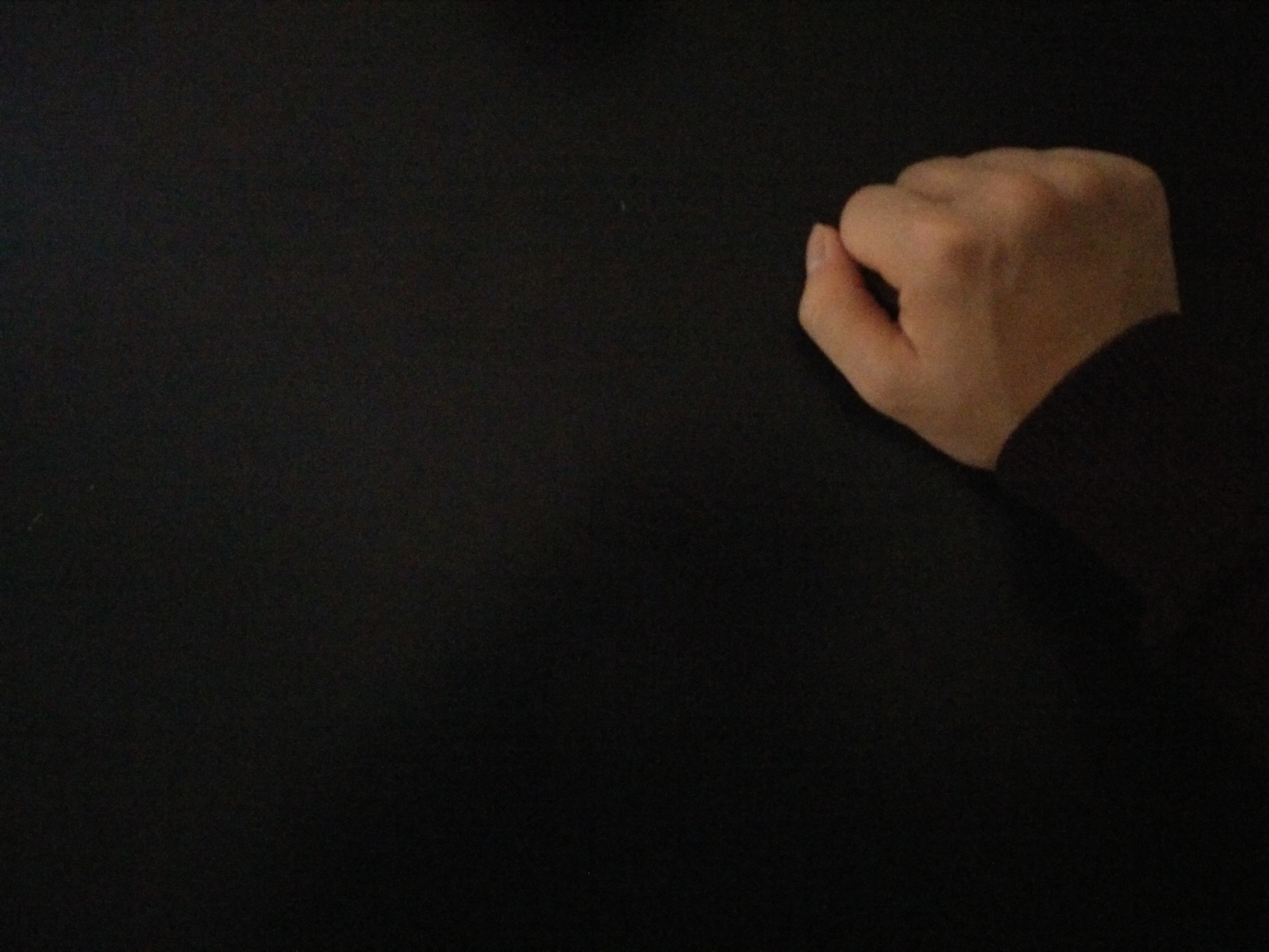
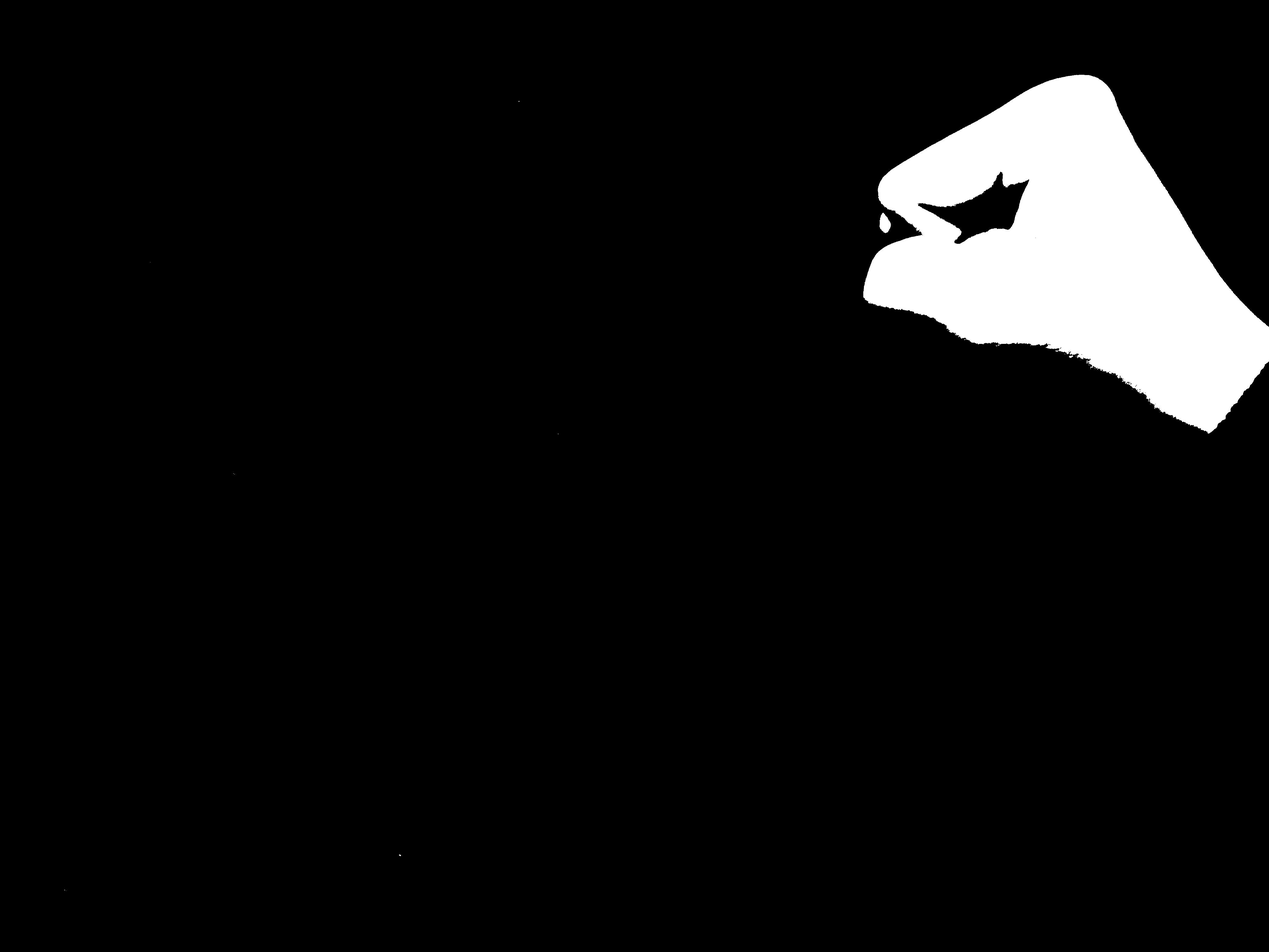
Major algorithmic change: now, not only rely on correclation coefficient. Much more accurate by also using smart crop.

Changed region(s): [[0.0, 0.0, 1.0, 0.684]]

diff --git a/main.m b/main.m
@@ -1,7 +1,54 @@
-template = im2bw(imresize(imread('template.jpg'), 0.1), 0.6);
-sample = rgb2gray(imresize(imread('p_lr.jpg'), 0.1));
-[x, y, likelihood] = detect( sample, template );
-disp(x);
-disp(y);
-disp(likelihood);
-disp(tellRegion(x, y, size(sample, 2), size(sample, 1)));
+passwords = {'1',        '2',        '3',        '4',        'Yes',     'A',        'B',        'C',        'D',        'No'};
+filenames = {'p_lr.jpg', 'p_ur.jpg', 'p_ul.jpg', 'p_ll.jpg', 'p_c.jpg', 'f_lr.jpg', 'f_ur.jpg', 'f_ul.jpg', 'f_ll.jpg', 'f_c.jpg'};
+pwd2fn = containers.Map(passwords, filenames);
+
+template_p = im2bw(imresize(imread('template_p.jpg'), 0.1), 0.6);
+template_f = im2bw(imresize(imread('template_f.jpg'), 0.1), 0.6);
+% template_p = rgb2gray(imresize(imread('template_p.jpg'), 0.1));
+% template_f = rgb2gray(imresize(imread('template_f.jpg'), 0.1));
+% sample = rgb2gray(imresize(imread(pwd2fn('1')), 0.1));
+
+samples = containers.Map();
+samples('1') = imresize(imread(pwd2fn('1')), 0.1);
+samples('2') = imresize(imread(pwd2fn('2')), 0.1);
+samples('3') = imresize(imread(pwd2fn('3')), 0.1);
+samples('4') = imresize(imread(pwd2fn('4')), 0.1);
+samples('Yes') = imresize(imread(pwd2fn('Yes')), 0.1);
+samples('A') = imresize(imread(pwd2fn('A')), 0.1);
+samples('B') = imresize(imread(pwd2fn('B')), 0.1);
+samples('C') = imresize(imread(pwd2fn('C')), 0.1);
+samples('D') = imresize(imread(pwd2fn('D')), 0.1);
+samples('No') = imresize(imread(pwd2fn('No')), 0.1);
+
+% Check logic: 1) is it a fist or palm? 2) where is it?
+
+for k = keys(samples)
+    disp(pwd2fn(char(k)));
+    sample = samples(char(k));
+    [x_p, y_p, likelihood_p] = detect( sample, template_p );
+    [x_f, y_f, likelihood_f] = detect( sample, template_f );
+    if likelihood_p > likelihood_f
+        disp('palm');
+        disp(tellRegion(x_p, y_p, size(sample, 2), size(sample, 1)));
+    else
+        disp('fist');
+        disp(tellRegion(x_f, y_f, size(sample, 2), size(sample, 1)));
+    end
+    disp(' ');
+end
+
+% [x, y, likelihood] = detect( sample, template_p );
+% disp(x);
+% disp(y);
+% disp(likelihood);
+% disp(tellRegion(x, y, size(sample, 2), size(sample, 1)));
+
+
+
+
+
+
+
+
+
+

diff --git a/imtrim.m b/imtrim.m
@@ -1,0 +1,60 @@
+function [out1,out2,out3,out4,out5] = imtrim(im,location)
+  %IMTRIM auto-crop an image like Photoshop's Edit>Trim feature, as of yet only
+  %grayscale imagse are supported
+  %
+  %   cropped = IMTRIM(IM) crop image based on top left corner
+  %   
+  %   [cropped,t,b,l,r] = IMTRIM(IM) return cropped image and indices used to
+  %   crop the image. So cropped = im(t:b,l:r);
+  %
+  %   [t,b,l,r] = IMTRIM(IM) return only indices used to crop the image. So 
+  %   cropped = im(t:b,l:r);
+  %
+  %   [...] = IMTRIM(IM,location) same as above but location may specify
+  %   top-left corner ('NorthWest') or bottom-right corner ('SouthEast') to be
+  %   the picel used in determining the auto-crop
+  %
+  %   Copyright Alec Jacobson, 2010
+  %
+
+  if(~exist('location'))
+    location = 'NorthWest';
+  end
+
+  % gather corner value to which the image is compared
+  if(strcmp(location,'NorthWest'))
+    corner_value = im(1,1);
+  elseif(strcmp(location,'SouthEast'))
+    corner_value = im(1,1);
+  else
+    error([location ' is not a valid location']);
+  end
+
+  % hard-coded threshold parameter, works equivalently with Photoshop's
+  % hardcoded parameter
+  threshold = 0.1;
+
+  % get difference of image with corner value
+  %difference = abs(im - corner_value)>0.1;
+  % should work for any number of channels
+  difference = sqrt(sum((im - corner_value).^2,3)) > ...
+    sqrt(threshold^2*size(im,3)); 
+  [left_i,left_j] = ind2sub(size(difference),find(difference,1));
+  [right_i,right_j] = ind2sub(size(difference),find(difference,1,'last'));
+  [top_j,top_i] = ind2sub(size(difference'),find(difference',1));
+  [bottom_j,bottom_i] = ind2sub(size(difference'),find(difference',1,'last'));
+  if(nargout == 1)
+    out1 = im(top_i:bottom_i,left_j:right_j);
+  elseif(nargout == 5)
+    out1 = im(top_i:bottom_i,left_j:right_j);
+    out2 = top_i;
+    out3 = bottom_i;
+    out4 = left_j;
+    out5 = right_j;
+  else
+    out1 = top_i;
+    out2 = bottom_i;
+    out3 = left_j;
+    out4 = right_j;
+  end
+end

diff --git a/procedure.m b/procedure.m
@@ -1,15 +1,28 @@
 
-template = im2bw(imresize(imread('template.jpg'), 0.1), 0.6);
- sample = rgb2gray(imresize(imread('p_ul.jpg'), 0.1));
+template = im2bw(imresize(imread('template_f.jpg'), 0.1), 0.5); % 0.35p
+imshow(template);
+% sample = imresize(imread('f_c.jpg'), 0.1);
+% sample = imresize(imread('f_ur.jpg'), 0.1);
+sample = imresize(imread('f_ll.jpg'), 0.1);
+% sample = imresize(imread('f_lr.jpg'), 0.1);
+%  
 % sample = rgb2gray(imresize(imread('p_ur.jpg'), 0.1));
 % sample = rgb2gray(imresize(imread('p_ll.jpg'), 0.1)); 
 % sample = rgb2gray(imresize(imread('p_lr.jpg'), 0.1));
 % sample = rgb2gray(imresize(imread('p_c.jpg'), 0.1));
 
+% sample = imresize(imread('p_ur.jpg'), 0.1);
+% sample = imresize(imread('p_ll.jpg'), 0.1); 
+% sample = imresize(imread('p_lr.jpg'), 0.1);
+% sample = imresize(imread('p_c.jpg'), 0.1);
+
+
 c = normxcorr2(template,sample);
 figure, surf(c), shading flat
 
 [ypeak, xpeak] = find(c==max(c(:)));
+ypeak = ypeak(1);  % make sure the dimension is 1
+xpeak = xpeak(1);  % same
 
 yoffSet = ypeak-size(template,1);
 xoffSet = xpeak-size(template,2);
@@ -19,6 +32,8 @@ yPos = yoffSet + 0.5*size(template,1);
 
 hAx = axes;
 imshow(sample,'Parent', hAx);
+disp('kkk');
+disp(xoffSet);
 imrect(hAx, [xoffSet, yoffSet, size(template,2), size(template,1)]);
 imrect(hAx, [xPos, yPos, 10, 10]);
 imrect(hAx, [5, 5, 10, 10]);

diff --git a/compare.m b/compare.m
@@ -1,0 +1,20 @@
+clc;
+f_lr = imtrim(im2bw(imresize(imread('f_ll.jpg'), 0.1), 0.5), 'NorthWest');
+p_lr = imtrim(im2bw(imresize(imread('p_c.jpg'), 0.1), 0.5), 'NorthWest');
+t_f = imtrim(im2bw(imresize(imread('template_f.jpg'), 0.1), 0.5), 'NorthWest');
+
+% imshow(t_f);
+
+
+C1 = normxcorr2(f_lr, t_f);
+a1 = max(C1(:));
+C2 = normxcorr2(p_lr, t_f);
+a2 = max(C2(:));
+
+% a1 > a2 should be
+disp('a1');
+disp(a1);
+
+disp('a2');
+disp(a2);
+

diff --git a/detect.m b/detect.m
@@ -8,6 +8,8 @@ c = normxcorr2(template,sample);
 
 likelihood = max(max(c));
 [ypeak, xpeak] = find(c==max(c(:)));
+ypeak = ypeak(1);
+xpeak = xpeak(1);
 
 yoffSet = ypeak-size(template,1);
 xoffSet = xpeak-size(template,2);

diff --git a/mapTest.m b/mapTest.m
@@ -1,0 +1,11 @@
+map = containers.Map();
+map('one') = 1;
+map('two') = 2;
+map('thr') = 3;
+ks = keys(map);
+
+for i = 1:size(ks, 2)
+    disp(map(char(ks(i)))); % dan teng
+end
+
+

diff --git a/trial.m b/trial.m
@@ -1,4 +1,4 @@
-RGB = imread('sample1.jpg');
+RGB = imread('f_ur.jpg');
 for n = 1:10
     BW = im2bw(RGB, n/10);
     pause(2);
